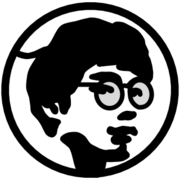
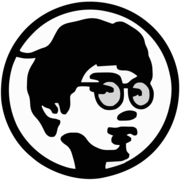
Use SVG as brand source

diff --git a/components/brand-mark.tsx b/components/brand-mark.tsx
@@ -5,10 +5,11 @@ import { cn } from "@/lib/utils"
 export function BrandMark({ className }: { className?: string }) {
   return (
     <Image
-      src="/kkawataki-logo.png"
+      src="/kkawataki-logo.svg"
       width={320}
       height={320}
       alt=""
+      unoptimized
       className={cn(
         "rounded-full bg-white object-cover ring-1 ring-ink/10",
         className
